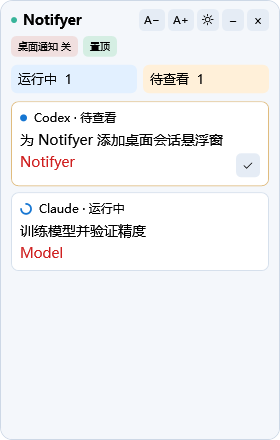
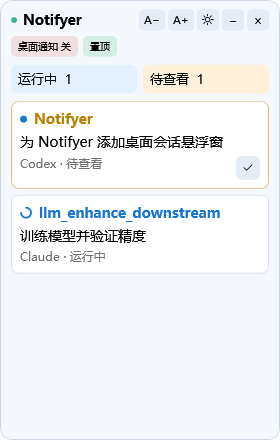
Release Notifyer 0.4.15 leading session cards with colored project names

Changed region(s): [[0.0286, 0.3545, 0.9714, 0.6205], [0.0571, 0.2364, 0.8, 0.3841]]

diff --git a/resources/floating-panel.xaml b/resources/floating-panel.xaml
@@ -21,7 +21,9 @@
     <SolidColorBrush x:Key="CardBorder" Color="#D6E0EC"/>
     <SolidColorBrush x:Key="UnreadBorder" Color="#E0BC7E"/>
     <SolidColorBrush x:Key="TextForeground" Color="#000000"/>
-    <SolidColorBrush x:Key="MetadataForeground" Color="#D02020"/>
+    <SolidColorBrush x:Key="MetadataForeground" Color="#707070"/>
+    <SolidColorBrush x:Key="ProjectRunningForeground" Color="#1676D2"/>
+    <SolidColorBrush x:Key="ProjectUnreadForeground" Color="#B98000"/>
     <SolidColorBrush x:Key="Accent" Color="#38B49A"/>
     <SolidColorBrush x:Key="StatusIndicator" Color="#1676D2"/>
     <SolidColorBrush x:Key="ScrollThumb" Color="#ACBCD0"/>

diff --git a/README.md b/README.md
@@ -23,7 +23,7 @@ What really consumes time is often not coding itself, but repeatedly switching b
 | Notification delivery | Desktop, VS Code, or both; optional unfocused-window-only delivery and VS Code fallback when desktop delivery fails. |
 | Windows floating window | One shared view of running and unread conversations across VS Code windows in the same profile. Click Notifyer in the bottom-right VS Code status bar to show/hide it. |
 | Review workflow | Click a card to open its exact session and remove the pending result after confirmed selection. Window activation alone never clears it. Manual review and persistence remain available. |
-| Appearance and controls | Sun/moon theme icons, night by default; red project name matches the title size. Desktop notifications default off; resizing, pinning, dragging, collapse and hide persist. |
+| Appearance and controls | Sun/moon theme icons, night by default; bold project names lead each card, blue while running and yellow when unread. Gray provider/status text appears below the prompt, two font sizes smaller. Desktop notifications default off; resizing, pinning, dragging, collapse and hide persist. |
 | Local and remote projects | Local UI monitoring with accessible WSL, Remote SSH and container sessions. The floating window appears on the local Windows desktop. |
 | Reliability and diagnostics | Silent historical baseline, completion deduplication across windows, helper recovery, test notification and diagnostic commands. |
 
@@ -70,11 +70,11 @@ When you click a desktop notification, Notifyer targets the exact VS Code window
 
 Conversation titles omit attachment transport markers, such as pasted-content tags, image paths, dimensions and coordinate hints. Readable text is retained; image-only/file-only prompts show “图片消息”/“附件消息”. Existing cached titles are also cleaned for display, without modifying original messages or logs.
 
-Use **A− / A+** in the header to decrease/increase text size immediately, one step per click (10–24 DIP). The default conversation text is now 14 DIP, up from 12; title text, red project names, status text and counts adjust together. The selected size is saved across reopening and restarting. These controls are separate from the collapse button.
+Use **A− / A+** in the header to decrease/increase text size immediately, one step per click (10–24 DIP). The default conversation text is now 14 DIP, up from 12; title text, bold project names, status text and counts adjust together; the gray status line stays two font sizes below the body. The selected size is saved across reopening and restarting. These controls are separate from the collapse button.
 
 Running status requires activity observed after startup. A historical scan reconciles the final state silently; it does not turn old unfinished logs into active work. Claude API errors, interruption markers and truncated/terminal response stop reasons hide the running card until real activity resumes. When no explicit stop is logged, the quiet timeout remains a fallback; the 500-minute limit also remains in place. Prompt wording such as “resume after a cut-off” alone is not evidence that a task has stopped.
 
-The default size is 280 × 440 DIP (approximately 420 × 660 pixels at 150% display scaling), with night colors. Only the project name appears in red below the conversation title, at the same font size; SSH host details, runtime and timestamps are hidden. Drag the header to move the panel and drag any edge or corner to resize it. Size, position and explicit theme choices save automatically and return when reopening the panel or restarting VS Code, including on a secondary monitor. Collapsing preserves the expanded size. If a display is disconnected or the header is no longer reachable, the panel returns to the nearest available display.
+The default size is 280 × 440 DIP (approximately 420 × 660 pixels at 150% display scaling), with night colors. Each card starts with the bold project name at the body font size, blue while running and yellow when awaiting review. The one-line prompt follows, with gray provider/status text beneath it, two font sizes smaller. SSH host details, runtime and timestamps are hidden. Drag the header to move the panel and drag any edge or corner to resize it. Size, position and explicit theme choices save automatically and return when reopening the panel or restarting VS Code, including on a secondary monitor. Collapsing preserves the expanded size. If a display is disconnected or the header is no longer reachable, the panel returns to the nearest available display.
 
 ![Default night colors with sample data](image/floating-panel-night-preview.png)
 
@@ -89,7 +89,7 @@ On Windows, one shared, draggable desktop window opens automatically; no extra d
 
 The default window fits approximately three compact cards; resize it freely and scroll for additional conversations. Titles use one line with an ellipsis; hover to read the stored excerpt. Persistent connection/focus explanations and the redundant SSH environment label are omitted. Only running and unread conversations appear. The 500-minute cutoff applies to the current turn's running time; its later completion can still appear for review, and a new turn is timed separately. Marking a result reviewed immediately removes its card; baseline history is hidden. Disconnected, aborted or quiet conversations are kept as unconfirmed internally and excluded from the running list. Long tools and approval waits can be quiet too; this does not indicate failure.
 
-Drag the header to move the panel. Click the sun/moon icon for day/night colors (night by default; daytime titles remain black and metadata red), **桌面通知 开 / 关** for shared desktop notifications (off by default), **置顶** to pin it, **− / +** to collapse/expand, and **×** to hide it. All preferences persist, including existing explicit notification choices. Muting desktop notifications preserves session tracking and unread results; explicitly configured VS Code notices remain enabled. **Click Notifyer in the bottom-right VS Code status bar to reopen the window; click again to hide it.** Its eye icon and tooltip track the shared visibility state across VS Code windows. The existing **Notifyer: Show Floating Window** and **Notifyer: Hide Floating Window** commands remain available.
+Drag the header to move the panel. Click the sun/moon icon for day/night colors (night by default; daytime prompts remain black, project names retain their status color and the footer stays gray), **桌面通知 开 / 关** for shared desktop notifications (off by default), **置顶** to pin it, **− / +** to collapse/expand, and **×** to hide it. All preferences persist, including existing explicit notification choices. Muting desktop notifications preserves session tracking and unread results; explicitly configured VS Code notices remain enabled. **Click Notifyer in the bottom-right VS Code status bar to reopen the window; click again to hide it.** Its eye icon and tooltip track the shared visibility state across VS Code windows. The existing **Notifyer: Show Floating Window** and **Notifyer: Hide Floating Window** commands remain available.
 
 Click a card to return to its matching VS Code window and open the specific Codex/Claude conversation by session ID. A confirmed selection removes only that completed turn's pending card. Merely activating a window or another conversation never clears reminders. Navigation errors, unsupported selectors, mismatched environments and uncertain selection keep the reminder and manual checkmark available. Claude does not expose arbitrary webview session IDs, so sidebar/already-active Claude surfaces may require manual review; titles are never used to guess identity. New results arriving during navigation remain unread. If multiple windows match, choose the intended window first. Unknown workspace ownership and child agents remain excluded.
 
@@ -116,6 +116,14 @@ Starting with 0.3.0, quota display has moved to the independent **Agent Center**
 Agent Center: [marketplace.visualstudio.com/items?itemName=pengsen.codex-claude-agent-status](https://marketplace.visualstudio.com/items?itemName=pengsen.codex-claude-agent-status)
 
 # Changelog
+
+## October 23, 2026 (0.4.15)
+
+1. Lead cards with the bold project name, blue while running and yellow for unread results; move provider/status below the prompt in gray, two font sizes smaller.
+
+## October 23, 2026 (0.4.14)
+
+1. Open the clicked conversation by session ID and acknowledge only its completed turn after confirmed selection; preserve uncertain or failed navigation and other conversations.
 
 ## October 22, 2026 (0.4.13)
 

diff --git a/CHANGELOG.md b/CHANGELOG.md
@@ -4,6 +4,17 @@ All notable changes to Notifyer are documented in this file.
 
 Notifyer 的重要变更都会记录在此文件中。
 
+## 0.4.15 - 2026-10-23
+
+### Changed / 调整
+
+- Lead each floating card with the real project name in bold, at the body font size. Running projects use blue and unread projects use yellow in both themes.
+- 卡片首行改为真实项目名并加粗，字号与正文相同；运行中显示蓝色，待查看显示黄色，昼夜配色均支持。
+- Move provider/status text below the prompt in gray, two font sizes smaller than the body. Font controls preserve the size difference; long project names stay on one line with ellipsis.
+- 提供方及状态移至正文下方，使用灰色，比正文小 2 号；调整字号时保持差值，长项目名单行省略。
+- Updated native layout checks and day/night previews, including a long project name. Session navigation and review behavior are unchanged.
+- 更新原生布局验证及昼夜预览，覆盖较长项目名；会话跳转及已查看逻辑保持不变。
+
 ## 0.4.14 - 2026-10-23
 
 ### Changed / 调整
